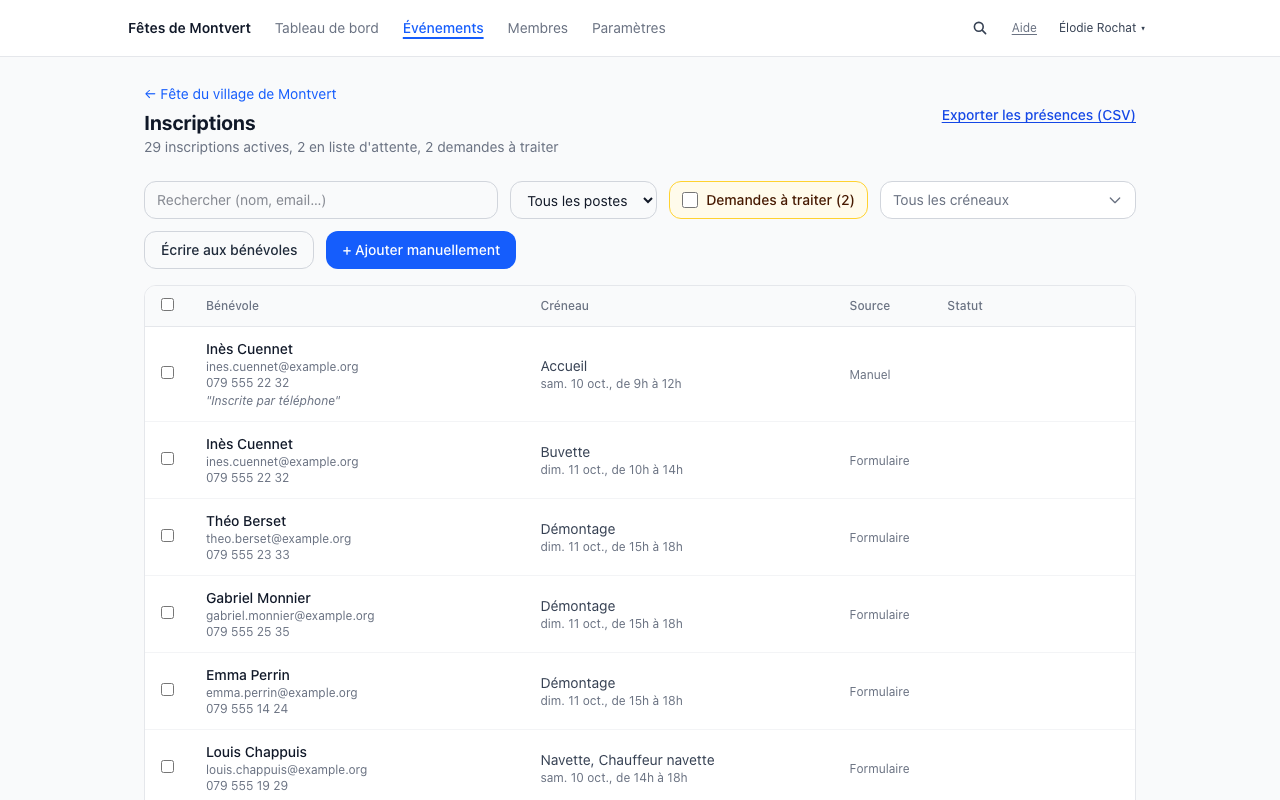
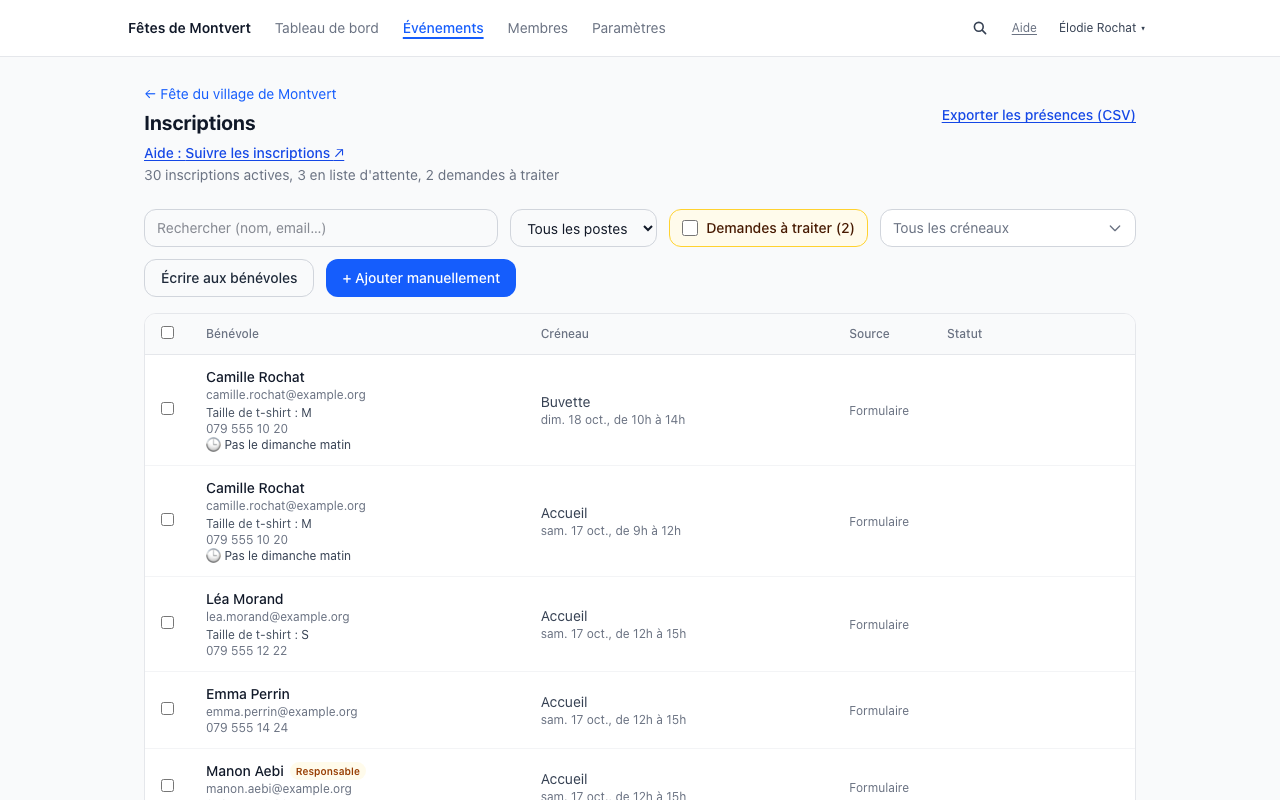
docs: regenerate the documentation captures from main, CI flags a changed screen whose capture was not regenerated (#884)

diff --git a/src/lib/doc-screenshots.ts b/src/lib/doc-screenshots.ts
@@ -1,0 +1,114 @@
+// SPDX-FileCopyrightText: 2026 Philippe Vollenweider
+// SPDX-License-Identifier: AGPL-3.0-only
+
+/**
+ * Documentation captures (public/doc-img/*.png, made by scripts/screenshots.mjs) and the screens
+ * they show. Run in CI by scripts/check-doc-screenshots.mjs: a PR that changes the source of a
+ * screen shown in a capture regenerates that capture in the same PR, or says `doc-img: unchanged`
+ * in its description or a commit message (a change that is not visible, e.g. a refactor).
+ *
+ * Each capture names the route files it shows; the files they import from src/app and
+ * src/components (.tsx/.ts, followed transitively) count as its sources. src/lib is left out on
+ * purpose: logic modules are shared by many screens and would flag every capture. Layouts are not
+ * followed either (the admin menu would flag every admin capture for any menu change).
+ *
+ * Plain TypeScript without path aliases: the CI script imports it directly (Node type stripping).
+ */
+
+/** Capture name (file public/doc-img/<name>.png) → route files it shows. */
+export const DOC_SCREENSHOTS: Record<string, string[]> = {
+  "public-timeline": ["src/app/[eventSlug]/page.tsx"],
+  "public-selection": ["src/app/[eventSlug]/page.tsx"],
+  "public-registration-birthdate": ["src/app/[eventSlug]/page.tsx"],
+  "public-timeline-mobile": ["src/app/[eventSlug]/page.tsx"],
+  "public-my-page": ["src/app/my/[token]/page.tsx"],
+  "leader-page": ["src/app/leader/[token]/page.tsx"],
+  "admin-dashboard": ["src/app/admin/dashboard/page.tsx"],
+  "admin-event-overview": ["src/app/admin/events/[id]/page.tsx"],
+  "admin-staffing": ["src/app/admin/events/[id]/staffing/page.tsx"],
+  "admin-shifts": ["src/app/admin/events/[id]/shifts/page.tsx"],
+  "admin-registrations": ["src/app/admin/events/[id]/registrations/page.tsx"],
+  "admin-registrations-requests": ["src/app/admin/events/[id]/registrations/page.tsx"],
+  "admin-refuse-request": ["src/app/admin/events/[id]/registrations/page.tsx"],
+  "admin-make-leader-modal": ["src/app/admin/events/[id]/registrations/page.tsx"],
+  "admin-sector-leaders": ["src/app/admin/events/[id]/sector-leaders/page.tsx"],
+  "admin-questions": ["src/app/admin/events/[id]/questions/page.tsx"],
+  "admin-pages": ["src/app/admin/events/[id]/pages/page.tsx"],
+  "admin-message": ["src/app/admin/events/[id]/message/page.tsx"],
+  "admin-print": ["src/app/admin/events/[id]/print/page.tsx"],
+  "admin-members": ["src/app/admin/members/page.tsx"],
+  "admin-member-activity": ["src/app/admin/members/[id]/page.tsx"],
+}
+
+export const OPT_OUT = "doc-img: unchanged"
+
+const IMPORT = /(?:^|\n)\s*(?:import|export)\s[^"'`;]*?from\s*["']([^"']+)["']|import\(\s*["']([^"']+)["']\s*\)/g
+
+/** Module specifiers a source file imports or re-exports (static and dynamic imports). */
+export function importSpecifiers(source: string): string[] {
+  const found: string[] = []
+  for (const match of source.matchAll(IMPORT)) found.push(match[1] ?? match[2])
+  return found
+}
+
+function normalize(path: string): string {
+  const out: string[] = []
+  for (const part of path.split("/")) {
+    if (part === "..") out.pop()
+    else if (part !== "." && part !== "") out.push(part)
+  }
+  return out.join("/")
+}
+
+/**
+ * Repository path of a local import followed for captures (src/app or src/components), or null
+ * for packages, src/lib and anything else.
+ */
+export function resolveLocalImport(fromFile: string, specifier: string, exists: (path: string) => boolean): string | null {
+  let base: string
+  if (specifier.startsWith("@/")) base = `src/${specifier.slice(2)}`
+  else if (specifier.startsWith(".")) base = normalize(`${fromFile.split("/").slice(0, -1).join("/")}/${specifier}`)
+  else return null
+  if (!base.startsWith("src/app/") && !base.startsWith("src/components/")) return null
+  for (const candidate of [base, `${base}.tsx`, `${base}.ts`, `${base}/index.tsx`, `${base}/index.ts`]) {
+    if (/\.tsx?$/.test(candidate) && exists(candidate)) return candidate
+  }
+  return null
+}
+
+/** Every source file a capture depends on: its route files and what they import, transitively. */
+export function screenshotSources(entries: string[], read: (path: string) => string, exists: (path: string) => boolean): Set<string> {
+  const seen = new Set<string>()
+  const queue = [...entries]
+  while (queue.length > 0) {
+    const file = queue.pop()!
+    if (seen.has(file)) continue
+    seen.add(file)
+    for (const specifier of importSpecifiers(read(file))) {
+      const resolved = resolveLocalImport(file, specifier, exists)
+      if (resolved && !seen.has(resolved)) queue.push(resolved)
+    }
+  }
+  return seen
+}
+
+/** True when a PR description or commit message opts out of regenerating captures. */
+export function hasOptOut(texts: string[]): boolean {
+  return texts.some((text) => text.toLowerCase().includes(OPT_OUT))
+}
+
+export type StaleScreenshot = { name: string; changedSources: string[] }
+
+/**
+ * Captures whose sources a PR changed while their PNG did not change. `changed` holds the
+ * repository paths the PR touches.
+ */
+export function staleScreenshots(changed: Set<string>, sourcesByShot: Record<string, Set<string>>): StaleScreenshot[] {
+  const stale: StaleScreenshot[] = []
+  for (const [name, sources] of Object.entries(sourcesByShot)) {
+    if (changed.has(`public/doc-img/${name}.png`)) continue
+    const changedSources = [...sources].filter((path) => changed.has(path)).sort()
+    if (changedSources.length > 0) stale.push({ name, changedSources })
+  }
+  return stale.sort((a, b) => a.name.localeCompare(b.name))
+}

diff --git a/src/lib/__tests__/doc-screenshots.test.ts b/src/lib/__tests__/doc-screenshots.test.ts
@@ -1,0 +1,96 @@
+// SPDX-FileCopyrightText: 2026 Philippe Vollenweider
+// SPDX-License-Identifier: AGPL-3.0-only
+
+import { describe, expect, it } from "vitest"
+import { existsSync, readFileSync, readdirSync } from "node:fs"
+import { DOC_SCREENSHOTS, hasOptOut, importSpecifiers, resolveLocalImport, screenshotSources, staleScreenshots } from "../doc-screenshots"
+
+describe("importSpecifiers", () => {
+  it("finds static, multi-line, type, re-export and dynamic imports", () => {
+    const source = [
+      'import Link from "next/link"',
+      "import {",
+      "  a,",
+      "  b,",
+      '} from "@/components/admin/Foo"',
+      'import type { T } from "./types"',
+      'export { x } from "../Bar"',
+      'const Lazy = dynamic(() => import("@/components/Lazy"))',
+    ].join("\n")
+    expect(importSpecifiers(source)).toEqual(["next/link", "@/components/admin/Foo", "./types", "../Bar", "@/components/Lazy"])
+  })
+})
+
+describe("resolveLocalImport", () => {
+  const files = new Set(["src/components/admin/Foo.tsx", "src/app/[eventSlug]/EventPageClient.tsx", "src/components/shifts/index.ts"])
+  const exists = (path: string) => files.has(path)
+
+  it("resolves aliases and relative paths inside src/app and src/components", () => {
+    expect(resolveLocalImport("src/app/x/page.tsx", "@/components/admin/Foo", exists)).toBe("src/components/admin/Foo.tsx")
+    expect(resolveLocalImport("src/app/[eventSlug]/page.tsx", "./EventPageClient", exists)).toBe("src/app/[eventSlug]/EventPageClient.tsx")
+    expect(resolveLocalImport("src/components/admin/Foo.tsx", "../shifts", exists)).toBe("src/components/shifts/index.ts")
+  })
+
+  it("ignores packages, src/lib and missing files", () => {
+    expect(resolveLocalImport("src/app/x/page.tsx", "next/link", exists)).toBeNull()
+    expect(resolveLocalImport("src/app/x/page.tsx", "@/lib/prisma", exists)).toBeNull()
+    expect(resolveLocalImport("src/app/x/page.tsx", "@/components/Missing", exists)).toBeNull()
+  })
+})
+
+describe("screenshotSources", () => {
+  it("follows imports transitively and survives cycles", () => {
+    const tree: Record<string, string> = {
+      "src/app/p/page.tsx": 'import A from "@/components/A"\nimport { x } from "@/lib/x"',
+      "src/components/A.tsx": 'import B from "./B"',
+      "src/components/B.tsx": 'import A from "./A"',
+    }
+    const sources = screenshotSources(["src/app/p/page.tsx"], (p) => tree[p], (p) => p in tree)
+    expect([...sources].sort()).toEqual(["src/app/p/page.tsx", "src/components/A.tsx", "src/components/B.tsx"])
+  })
+})
+
+describe("staleScreenshots", () => {
+  const sourcesByShot = {
+    "admin-shifts": new Set(["src/app/admin/events/[id]/shifts/page.tsx", "src/components/admin/ShiftsManager.tsx"]),
+    "public-timeline": new Set(["src/app/[eventSlug]/page.tsx"]),
+  }
+
+  it("flags a capture whose screen changed but whose PNG did not", () => {
+    expect(staleScreenshots(new Set(["src/components/admin/ShiftsManager.tsx"]), sourcesByShot)).toEqual([
+      { name: "admin-shifts", changedSources: ["src/components/admin/ShiftsManager.tsx"] },
+    ])
+  })
+
+  it("accepts a regenerated capture and ignores unrelated changes", () => {
+    expect(staleScreenshots(new Set(["src/components/admin/ShiftsManager.tsx", "public/doc-img/admin-shifts.png"]), sourcesByShot)).toEqual([])
+    expect(staleScreenshots(new Set(["src/lib/prisma.ts", "README.md"]), sourcesByShot)).toEqual([])
+  })
+})
+
+describe("hasOptOut", () => {
+  it("finds the marker in a PR description or commit message, case-insensitively", () => {
+    expect(hasOptOut(["refactor\n\nDoc-img: unchanged (no visible change)"])).toBe(true)
+    expect(hasOptOut(["", "fix: label"])).toBe(false)
+  })
+})
+
+describe("DOC_SCREENSHOTS", () => {
+  const script = readFileSync("scripts/screenshots.mjs", "utf-8")
+
+  it("covers every capture of public/doc-img and every shot of scripts/screenshots.mjs", () => {
+    const pngs = readdirSync("public/doc-img").filter((f) => f.endsWith(".png")).map((f) => f.slice(0, -4)).sort()
+    const shots = [...script.matchAll(/await shot\("([^"]+)"/g)].map((m) => m[1]).sort()
+    expect(Object.keys(DOC_SCREENSHOTS).sort()).toEqual(pngs)
+    expect(Object.keys(DOC_SCREENSHOTS).sort()).toEqual(shots)
+  })
+
+  it("points to route files that exist", () => {
+    for (const entries of Object.values(DOC_SCREENSHOTS)) for (const entry of entries) expect(existsSync(entry), entry).toBe(true)
+  })
+
+  it("reaches the components a capture shows", () => {
+    const sources = screenshotSources(DOC_SCREENSHOTS["admin-shifts"], (p) => readFileSync(p, "utf-8"), existsSync)
+    expect(sources.has("src/components/admin/ShiftsManager.tsx")).toBe(true)
+  })
+})

diff --git a/CONTRIBUTING.md b/CONTRIBUTING.md
@@ -225,7 +225,7 @@ Checklist à suivre à chaque changement de version :
 6. **`GUIDE_ADMIN.md` / `guide/*.md`** : décrivent uniquement l'état actuel du produit, jamais de langage « depuis la version x, … ». Ce sont aussi les pages publiques `/doc/admin` et `/doc/<page>` (même source) ; `/doc/benevole` et `/doc/admin` listent les pages de leur rôle.
 7. **Changement incompatible** (variable obligatoire, manifeste, migration par Job) : section « Mise à jour depuis x » dans `docs/deploiement.md`, lien dans le README et en tête de la section du CHANGELOG.
 8. **Nouvelle variable d'environnement** : `src/lib/env.ts` si elle doit être validée au démarrage, `docs/configuration.md`, `.env.example`, l'étape « Sync k8s secret » de `.github/workflows/deploy.yml` et le secret GitHub correspondant.
-9. **Captures de la documentation** (`public/doc-img/`, utilisées par les guides et le README) : si des écrans ont changé, les régénérer sur une base jetable avec l'événement de démonstration (`scripts/seed-demo.ts` puis `npm run screenshots`, procédure en tête de `scripts/screenshots.mjs`), et relire les textes alternatifs.
+9. **Captures de la documentation** (`public/doc-img/`, utilisées par les guides et le README) : si des écrans ont changé, les régénérer sur une base jetable avec l'événement de démonstration (`scripts/seed-demo.ts` puis `npm run screenshots`, procédure en tête de `scripts/screenshots.mjs`), et relire les textes alternatifs. Hors release, la même règle s'applique à chaque PR qui modifie un écran montré (« Captures de la documentation » dans `AGENTS.md`, vérifiée en CI).
 10. **Tag et release GitHub** : après fusion de la PR de release sur `main`, sur ce commit : `git tag -a vX.Y.Z -m "vX.Y.Z"`, `git push origin vX.Y.Z`, puis `gh release create vX.Y.Z --notes-file <extrait du CHANGELOG>`. Le déploiement part du push sur `main`, pas du tag. Le numéro affiché dans le pied de page public (`v{version}`) vient directement de `package.json` : rien à modifier à la main de ce côté.
 11. Vérifier le déploiement (`gh run watch` sur le workflow *Build & Deploy* déclenché par le push sur `main`).
 

diff --git a/guide/inscriptions-sur-validation.md b/guide/inscriptions-sur-validation.md
@@ -32,7 +32,7 @@ Cochez **Sur validation** dans le formulaire du créneau (ou dans la série de c
 
 ![Inscriptions filtrées sur « Demandes à traiter (2) » : deux demandes sur le poste Navette, chacune avec les boutons Accepter et Refuser](/doc-img/admin-registrations-requests.png)
 
-![Fenêtre « Refuser la demande de Marc Duc ? » : ce qui va se passer, un message facultatif pour la personne, et les boutons Annuler et Refuser](/doc-img/admin-refuse-request.png)
+![Fenêtre « Refuser la demande de Lucas Girard ? » : ce qui va se passer, un message facultatif pour la personne, et les boutons Annuler et Refuser](/doc-img/admin-refuse-request.png)
 
 Les demandes ne reçoivent pas les rappels, ne figurent pas sur les feuilles de présence et les exports, et ne font pas partie de « tous les inscrits » dans les messages ciblés. Une demande compte comme une inscription pour les doublons, les chevauchements et la limite de créneaux par personne. Tant qu'elle n'est pas acceptée, elle garde sa place sans compter parmi les inscrits : la page de l'événement l'affiche à côté des inscrits (« + 2 demandes à traiter ») et ne la compte pas dans les places restantes, et « Où manque-t-il du monde ? » ne compte pas sa place comme manquante, avec un lien vers les demandes à traiter. Les **Rapports** ne la montrent nulle part, coordonnées comprises. Une place proposée depuis la liste d'attente sur un créneau sur validation devient, elle aussi, une demande. Si le créneau est annulé, les demandes le sont aussi, avec le même email que les inscrits.
 

diff --git a/AGENTS.md b/AGENTS.md
@@ -19,3 +19,8 @@ This block is written and re-added by `next dev` — verify at `node_modules/nex
 
 - Tout changement d'interface relit `DESIGN.md` et `PRODUCT.md`.
 - Si une limite d'accessibilité apparaît ou disparaît, mettre à jour dans le même changement les « Limites connues » et la date de `ACCESSIBILITE.md` (page publique `/accessibilite`, sans chemin de fichier ni code), et les « Écarts connus » de `docs/accessibilite.md`.
+
+## Captures de la documentation
+
+- Tout changement qui modifie un écran montré dans `public/doc-img/` (guides, README) régénère les captures concernées dans le même changement : `ONLY=<captures> npm run screenshots` sur une base jetable de la branche, procédure en tête de `scripts/screenshots.mjs`. Relire ensuite leurs textes alternatifs dans les guides. Une capture ne montre jamais un ancien libellé ou une ancienne disposition.
+- La CI le vérifie (`scripts/check-doc-screenshots.mjs`, correspondance capture → écrans dans `src/lib/doc-screenshots.ts`) : elle échoue si un écran montré change sans sa capture. Un changement sans effet visible le dit par `doc-img: unchanged` dans la description de la PR ou le message du dernier commit. Une nouvelle capture se déclare dans les deux fichiers.

diff --git a/guide/creer-un-evenement.md b/guide/creer-un-evenement.md
@@ -47,6 +47,6 @@ Le formulaire de modification propose aussi la case **Rappels automatiques** (co
 
 Une fois créé, chaque événement a sa propre page de pilotage : statistiques en un coup d'œil, raccourcis vers les créneaux et les inscriptions, jalons, journal. C'est votre poste de commande pour toute la durée de l'événement.
 
-![Page de pilotage d'un événement publié : barre d'étapes, statistiques, raccourcis vers les créneaux, les inscriptions et les autres pages de l'événement, puis la liste des jalons dont un en retard](/doc-img/admin-event-overview.png)
+![Page de pilotage d'un événement publié : barre d'étapes, bloc « Partager l'événement » avec le lien à copier, statistiques (dont 2 demandes à traiter), boutons « Gérer les créneaux », « Voir les inscriptions » et « Inviter des membres », puis les outils de l'événement (QR code, Rapports, Journal, Pages, Questions, Responsables de secteur, Dupliquer)](/doc-img/admin-event-overview.png)
 
 Pour repartir d'un événement existant (édition suivante d'un festival), voir [Dupliquer un événement](dupliquer-un-evenement.md).

diff --git a/guide/choisir-ses-creneaux.md b/guide/choisir-ses-creneaux.md
@@ -43,7 +43,7 @@ Certains postes affichent un petit repère (par exemple « 18+ ») : ils demande
 
 Clique (ou tape) sur une barre disponible. Le créneau s'ajoute à ta sélection, visible dans la liste en bas de page. Pour le retirer, clique sur le **✕** à droite de son nom dans cette liste.
 
-![Planning public avec deux créneaux sélectionnés (Accueil de 9 h à 12 h et Chauffeur navette de 14 h à 18 h) ; la colonne de droite les liste, le second marqué « Sur validation · demande à accepter par l'organisation », et le bouton « Continuer (2 nouveaux créneaux) »](/doc-img/public-selection.png)
+![Planning public avec deux créneaux sélectionnés (Accueil de 9 h à 12 h et Chauffeur navette de 14 h à 18 h) ; la colonne de droite les liste, le second marqué « 21 ans minimum » et « Sur validation · demande à accepter par l'organisation »](/doc-img/public-selection.png)
 
 Certains postes sont **réservés** à des membres de l'association : ils sont marqués « Réservé » et on s'y inscrit avec le lien personnel reçu par email dans l'invitation.
 

diff --git a/guide/questions-aux-benevoles.md b/guide/questions-aux-benevoles.md
@@ -14,7 +14,7 @@ aliases: []
 
 **Événements**, puis l'événement, puis **Questions**.
 
-![Page des questions d'un événement : « Taille de t-shirt » (choix unique S à XL, obligatoire) et « Régime alimentaire » (texte court), avec les actions pour les modifier, les réordonner ou les retirer](/doc-img/admin-questions.png)
+![Page des questions d'un événement : « Taille de t-shirt » (choix unique S à XL, obligatoire), « Régime alimentaire » et « Permis de conduire » (texte court), chacune avec son nombre de réponses et les actions Monter, Descendre, Modifier et Retirer, puis le début de la synthèse des réponses](/doc-img/admin-questions.png)
 
 Jusqu'à 5 questions ajoutées au formulaire d'inscription, quand l'événement demande une information de plus : taille de t-shirt, permis, régime, expérience, transport. Types : **texte court**, **oui / non**, **choix unique** ou **choix multiple** (un choix par ligne, au moins deux), obligatoire ou facultative. L'ordre se change avec **Monter** et **Descendre**.
 

diff --git a/guide/ma-page-personnelle.md b/guide/ma-page-personnelle.md
@@ -18,7 +18,7 @@ Ta page personnelle s'ouvre avec ton **lien personnel**, reçu par email (voir [
 https://[organisation].benevol.app/my/[token]
 ```
 
-![Page personnelle « Mes inscriptions » : ajout du planning au calendrier, chaque créneau avec sa date et son bouton (Annuler, ou Quitter la liste d'attente pour celui en liste d'attente, position 1), puis le bloc « Ton lien personnel »](/doc-img/public-my-page.png)
+![Page personnelle « Mes inscriptions » : la carte « Avant ta mission » (poste, horaire, lieu, responsable, consignes et pages de l'événement), l'ajout de tout le planning au calendrier, puis « Tous mes créneaux », chacun avec sa date et son bouton Annuler](/doc-img/public-my-page.png)
 
 ## Avant ta mission
 

diff --git a/guide/configurer-les-creneaux.md b/guide/configurer-les-creneaux.md
@@ -16,7 +16,7 @@ aliases: []
 
 Un créneau correspond à un poste de bénévolat sur une plage horaire précise.
 
-![Frise des créneaux d'un événement, un bloc par jour, avec les postes en lignes et les créneaux en barres colorées par poste](/doc-img/admin-shifts.png)
+![Page des créneaux d'un événement : choix Frise ou Liste, boutons « Créer une série », « Répéter chaque semaine » et « + Ajouter un créneau », puis la frise, un bloc par jour, avec les postes en lignes et les créneaux en barres colorées par poste](/doc-img/admin-shifts.png)
 
 ## Ajouter un créneau
 
